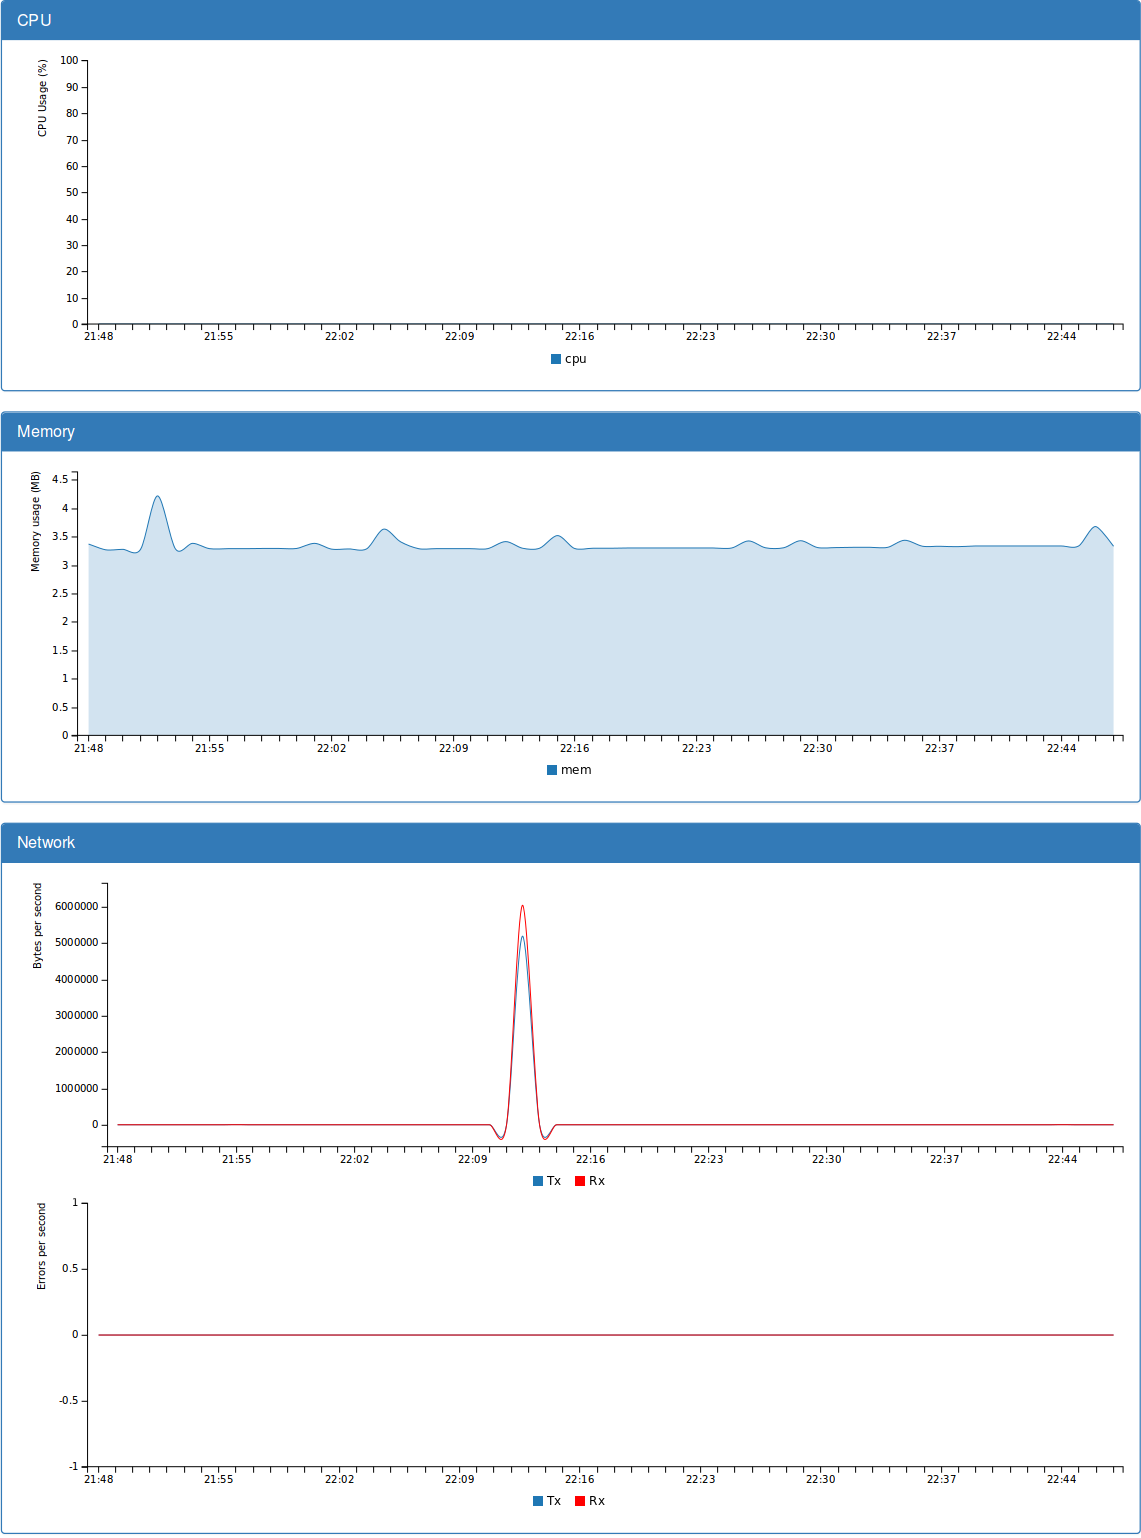
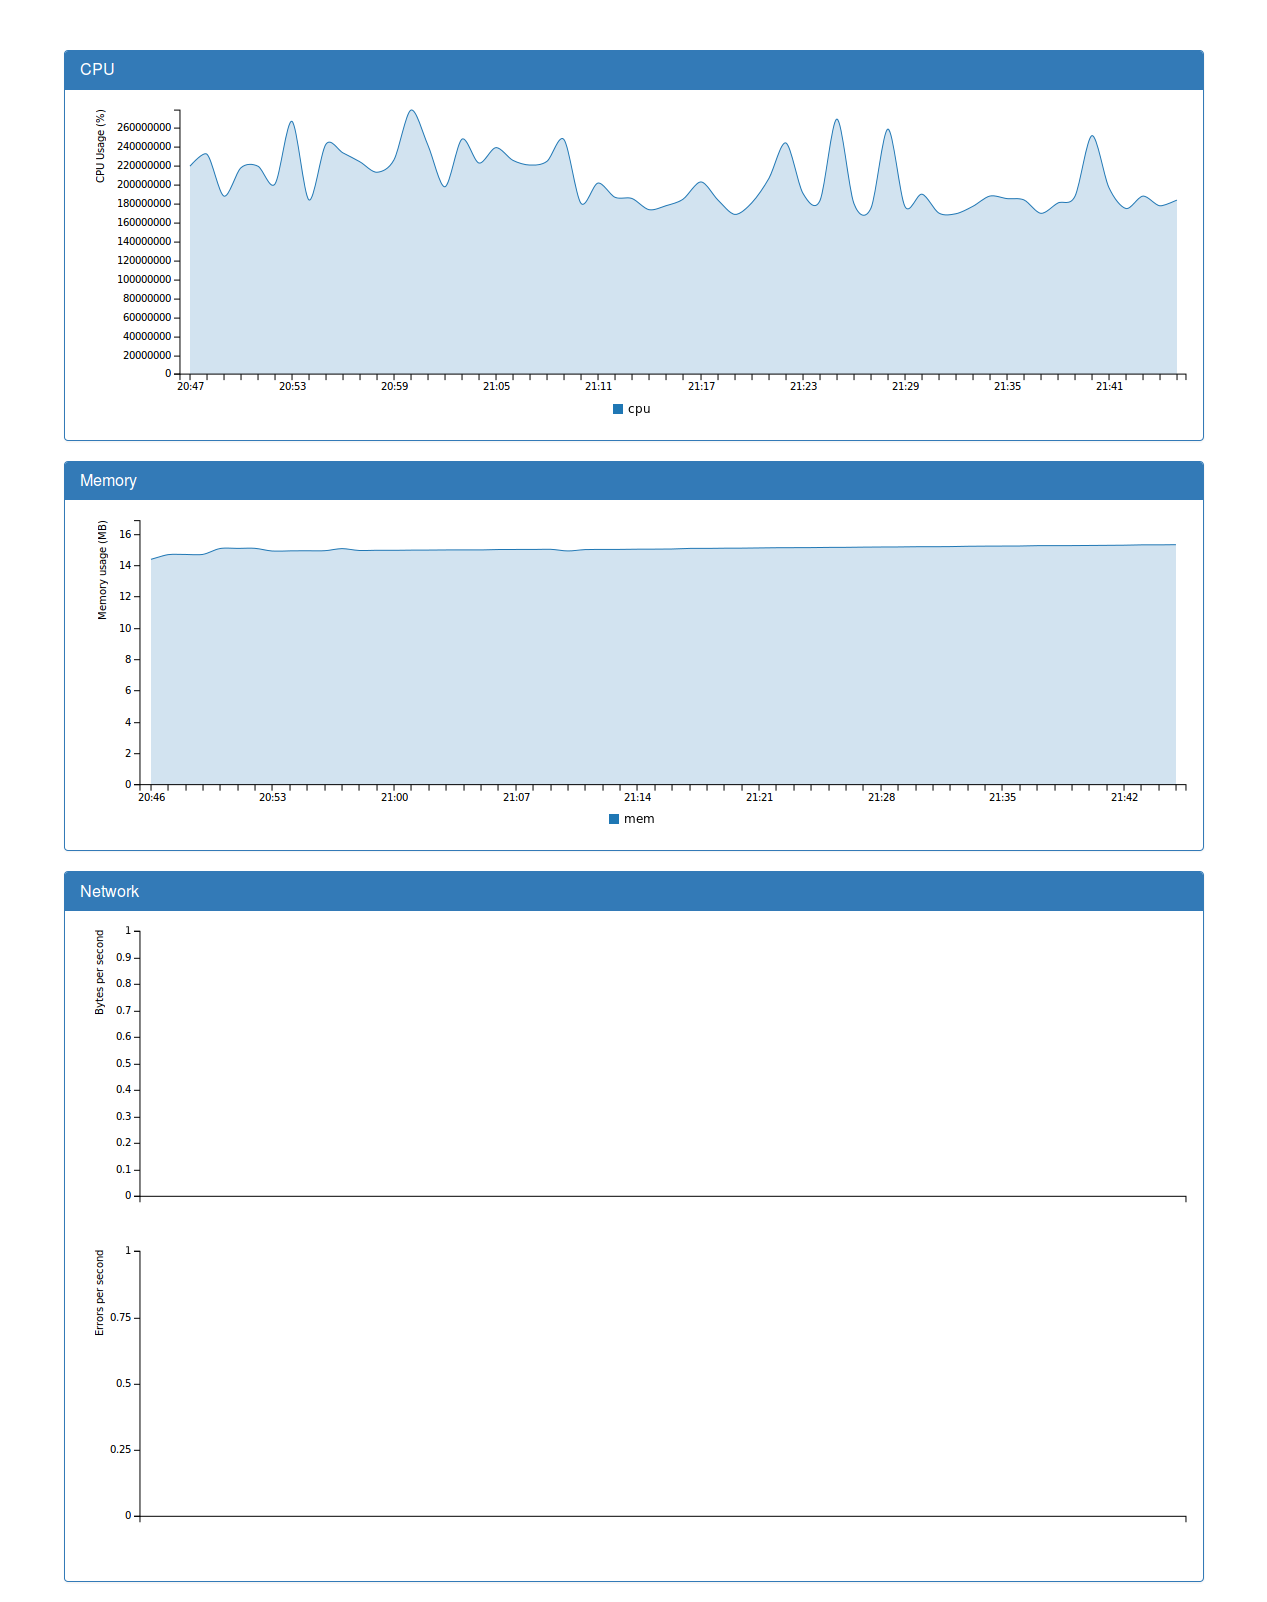
template/view changes to draw the new stats from docker API

diff --git a/templates/container.html b/templates/container.html
@@ -56,7 +56,7 @@
                         xFormat: '%Y-%m-%d %H:%M',
                         columns: [
                             temporal_axis,
-                            ['cpu'].concat({{data.cpu|safe}})
+                            ['cpu'].concat({{data.cpu.usage|safe}})
                         ],
                         types: {
                             cpu: 'area-spline'
@@ -74,8 +74,8 @@
 	                    }
 	                },
                         y: {
-                            max: 100,
-                            min: 0,
+                           // max: 100,
+                           // min: 0,
                             padding: { top: 0, bottom: 0 },
                             label: {
                                 text: 'CPU Usage (%)',
@@ -93,7 +93,8 @@
                         xFormat: '%Y-%m-%d %H:%M',
                         columns: [
                             temporal_axis,
-                            ['mem'].concat({{data.mem|safe}})
+                            ['mem'].concat({{data.mem.usage|safe}}),
+                            ['limit'].concat({{data.mem.limit|safe}})
                         ],
                         types: {
                             mem: 'area-spline'

diff --git a/run.py b/run.py
@@ -60,15 +60,7 @@ def retrieve(container_id, resource, instant):
     key = REDIS_KEY.format(timestamp=instant.strftime(REDIS_KEY_TIMESTAMP),
                            container_id=container_id,
                            resource=resource)
-    value = r.get(key)
-
-    if value != None:
-        if resource == 'mem':
-            # convert bytes to MB (memory usage)
-            value = int(value) / (1024.0)**2
-        elif resource == 'net':
-            # return a dictionary
-            value = loads(value)
+    value = loads(r.get(key))
 
     return value
 
@@ -104,6 +96,19 @@ def containers():
     return render_template('overview.html', containers=containers)
 
 
+def convert_ticks_to_usage(cpu_stats):
+    """ convert a list of {'system_cpu_usage': 771430350000000, 'cpu_usage': {'usage_in_kernelmode': 46800000000, 'percpu_usage': [29361095473, 29469353200, 7072412908, 7714245950], 'total_usage': 73617107531, 'usage_in_usermode': 18820000000}, 'throttling_data': {'throttled_periods': 0, 'periods': 0, 'throttled_time': 0}}
+    """
+    ltotalticks = [int(s['cpu_usage']['total_usage']) for s in cpu_stats]
+    total = sum(ltotalticks)
+    #lusage = [ticks*100.0/total for ticks in ltotalticks]
+    #lusage = reduce(lambda x, y: (y-x)/total, lusage, 0)
+
+    # iterate by pairs
+    lusage = [(x-y) for x, y in zip(ltotalticks[:-1], ltotalticks[1:])]
+
+    return lusage
+
 @app.route('/container/<container_id>')
 def describe_container(container_id):
     data = {}
@@ -113,7 +118,7 @@ def describe_container(container_id):
     # obtain timeseries from redis
     try:
         #with Timer(verbose=True) as t:
-        for resource in ['cpu', 'mem', 'net']:
+        for resource in ['cpu_stats', 'memory_stats', 'network', 'blkio_stats']:
             data[resource] = []
             for delta in range(60):
                 timestamp = datetime.now() - timedelta(minutes=delta)
@@ -124,16 +129,27 @@ def describe_container(container_id):
                 data['time'].append(timestamp.strftime('%Y-%m-%d %H:%M'))
 
 
-        # construct lists from list of jsons (network)
-        data['net'] = {
-            'tx': [x['TxBps'] for x in data['net']],
-            'rx': [x['RxBps'] for x in data['net']],
-            'tx_err': [x['Transmit']['Errs'] for x in data['net']],
-            'rx_err': [x['Received']['Errs'] for x in data['net']],
-        }
+#       # construct lists from list of jsons (network)
+#       data['net'] = {
+#           'tx': [x['TxBps'] for x in data['net']],
+#           'rx': [x['RxBps'] for x in data['net']],
+#           'tx_err': [x['Transmit']['Errs'] for x in data['net']],
+#           'rx_err': [x['Received']['Errs'] for x in data['net']],
+#       }
     except redis.exceptions.ConnectionError as e:
         data['error'] = 'Unable to obtain data about the container. [{}]'.format(e)
 
+
+#{'max_usage': 16216064, 'stats': {'mapped_file': 1626112, 'total_pgpgout': 14738, 'total_pgfault': 7569, 'active_file': 2084864, 'pgpgin': 16379, 'total_unevictable': 0, 'total_cache': 2351104, 'rss_huge': 2097152, 'pgpgout': 14738, 'total_mapped_file': 1626112, 'inactive_anon': 4096, 'inactive_file': 245760, 'cache': 2351104, 'pgmajfault': 130, 'unevictable': 0, 'hierarchical_memory_limit': 18446744073709551615, 'writeback': 0, 'total_inactive_file': 245760, 'pgfault': 7569, 'total_active_file': 2084864, 'active_anon': 6479872, 'rss': 6463488, 'total_writeback': 0, 'total_pgpgin': 16379, 'total_inactive_anon': 4096, 'total_pgmajfault': 130, 'total_rss': 6463488, 'total_active_anon': 6479872, 'total_rss_huge': 2097152}, 'failcnt': 0, 'usage': 8814592, 'limit': 4033351680}
+
+
+    data['cpu'] = {
+            'usage' : convert_ticks_to_usage(data['cpu_stats']),
+        }
+    data['mem'] = {
+            'usage' : [float(s['usage'])/(1024.0**2.0) for s in data['memory_stats']]
+        }
+    data['net'] = []
 
     # feed the template with the retrieved data
     return render_template('container.html', data=data, name=container_id,

diff --git a/README.md b/README.md
@@ -2,9 +2,9 @@
 Oculus
 ======
 
-A web dashboard for [Acadock](https://github.com/Scalingo/acadock-monitoring) docker container monitoring webservice. Celery workers consume periodically the live data of cpu/mem/net being used by the running docker containers, polling the Acadock API and storing the results in a redis. Flask, bootstrap and c3.js add some colour.
+A simple monitoring system for Docker. A dockerized small app (publisher) will consume periodically stats about resource usage of the running docker containers, polling the Docker API and storing the results in a redis container as a temporary storage. Flask, bootstrap and c3.js (a d3 wrapper) add some colour.
 
-> This is obviously still a work in progress.
+> This is obviously still a work in progress. Docker API stats will 'only work when using the libcontainer exec-driver'[\[1\]](https://docs.docker.com/reference/api/docker_remote_api_v1.18/#get-container-stats-based-on-resource-usage).
 
 ![preview](acadock-front.png "preview")
 
@@ -37,15 +37,15 @@ Run **Redis** (as a celery and timeseries backend):
  docker run --name redis -p 6379:6379 -d redis:3
 ```
 
-Run **Celery** (workers and beat scheduler for periodical tasks):
+Run **Publisher** (docker container with a cron that polls docker API every minute):
 
 ```
- celery -A tasks worker --loglevel=info --beat
+ docker run --rm -v /var/run/docker.sock:/var/run/docker.sock --link redis:db --name oculus_publisher oculus/publisher
 ```
 
-Run **Oculus**:
+Run **Oculus** web front:
 
 > (still working in a dockerized solution)
 > python run.py
 
-Then go to http://localhost:5000/container/:id 
+Then go to http://localhost:5000/ 
